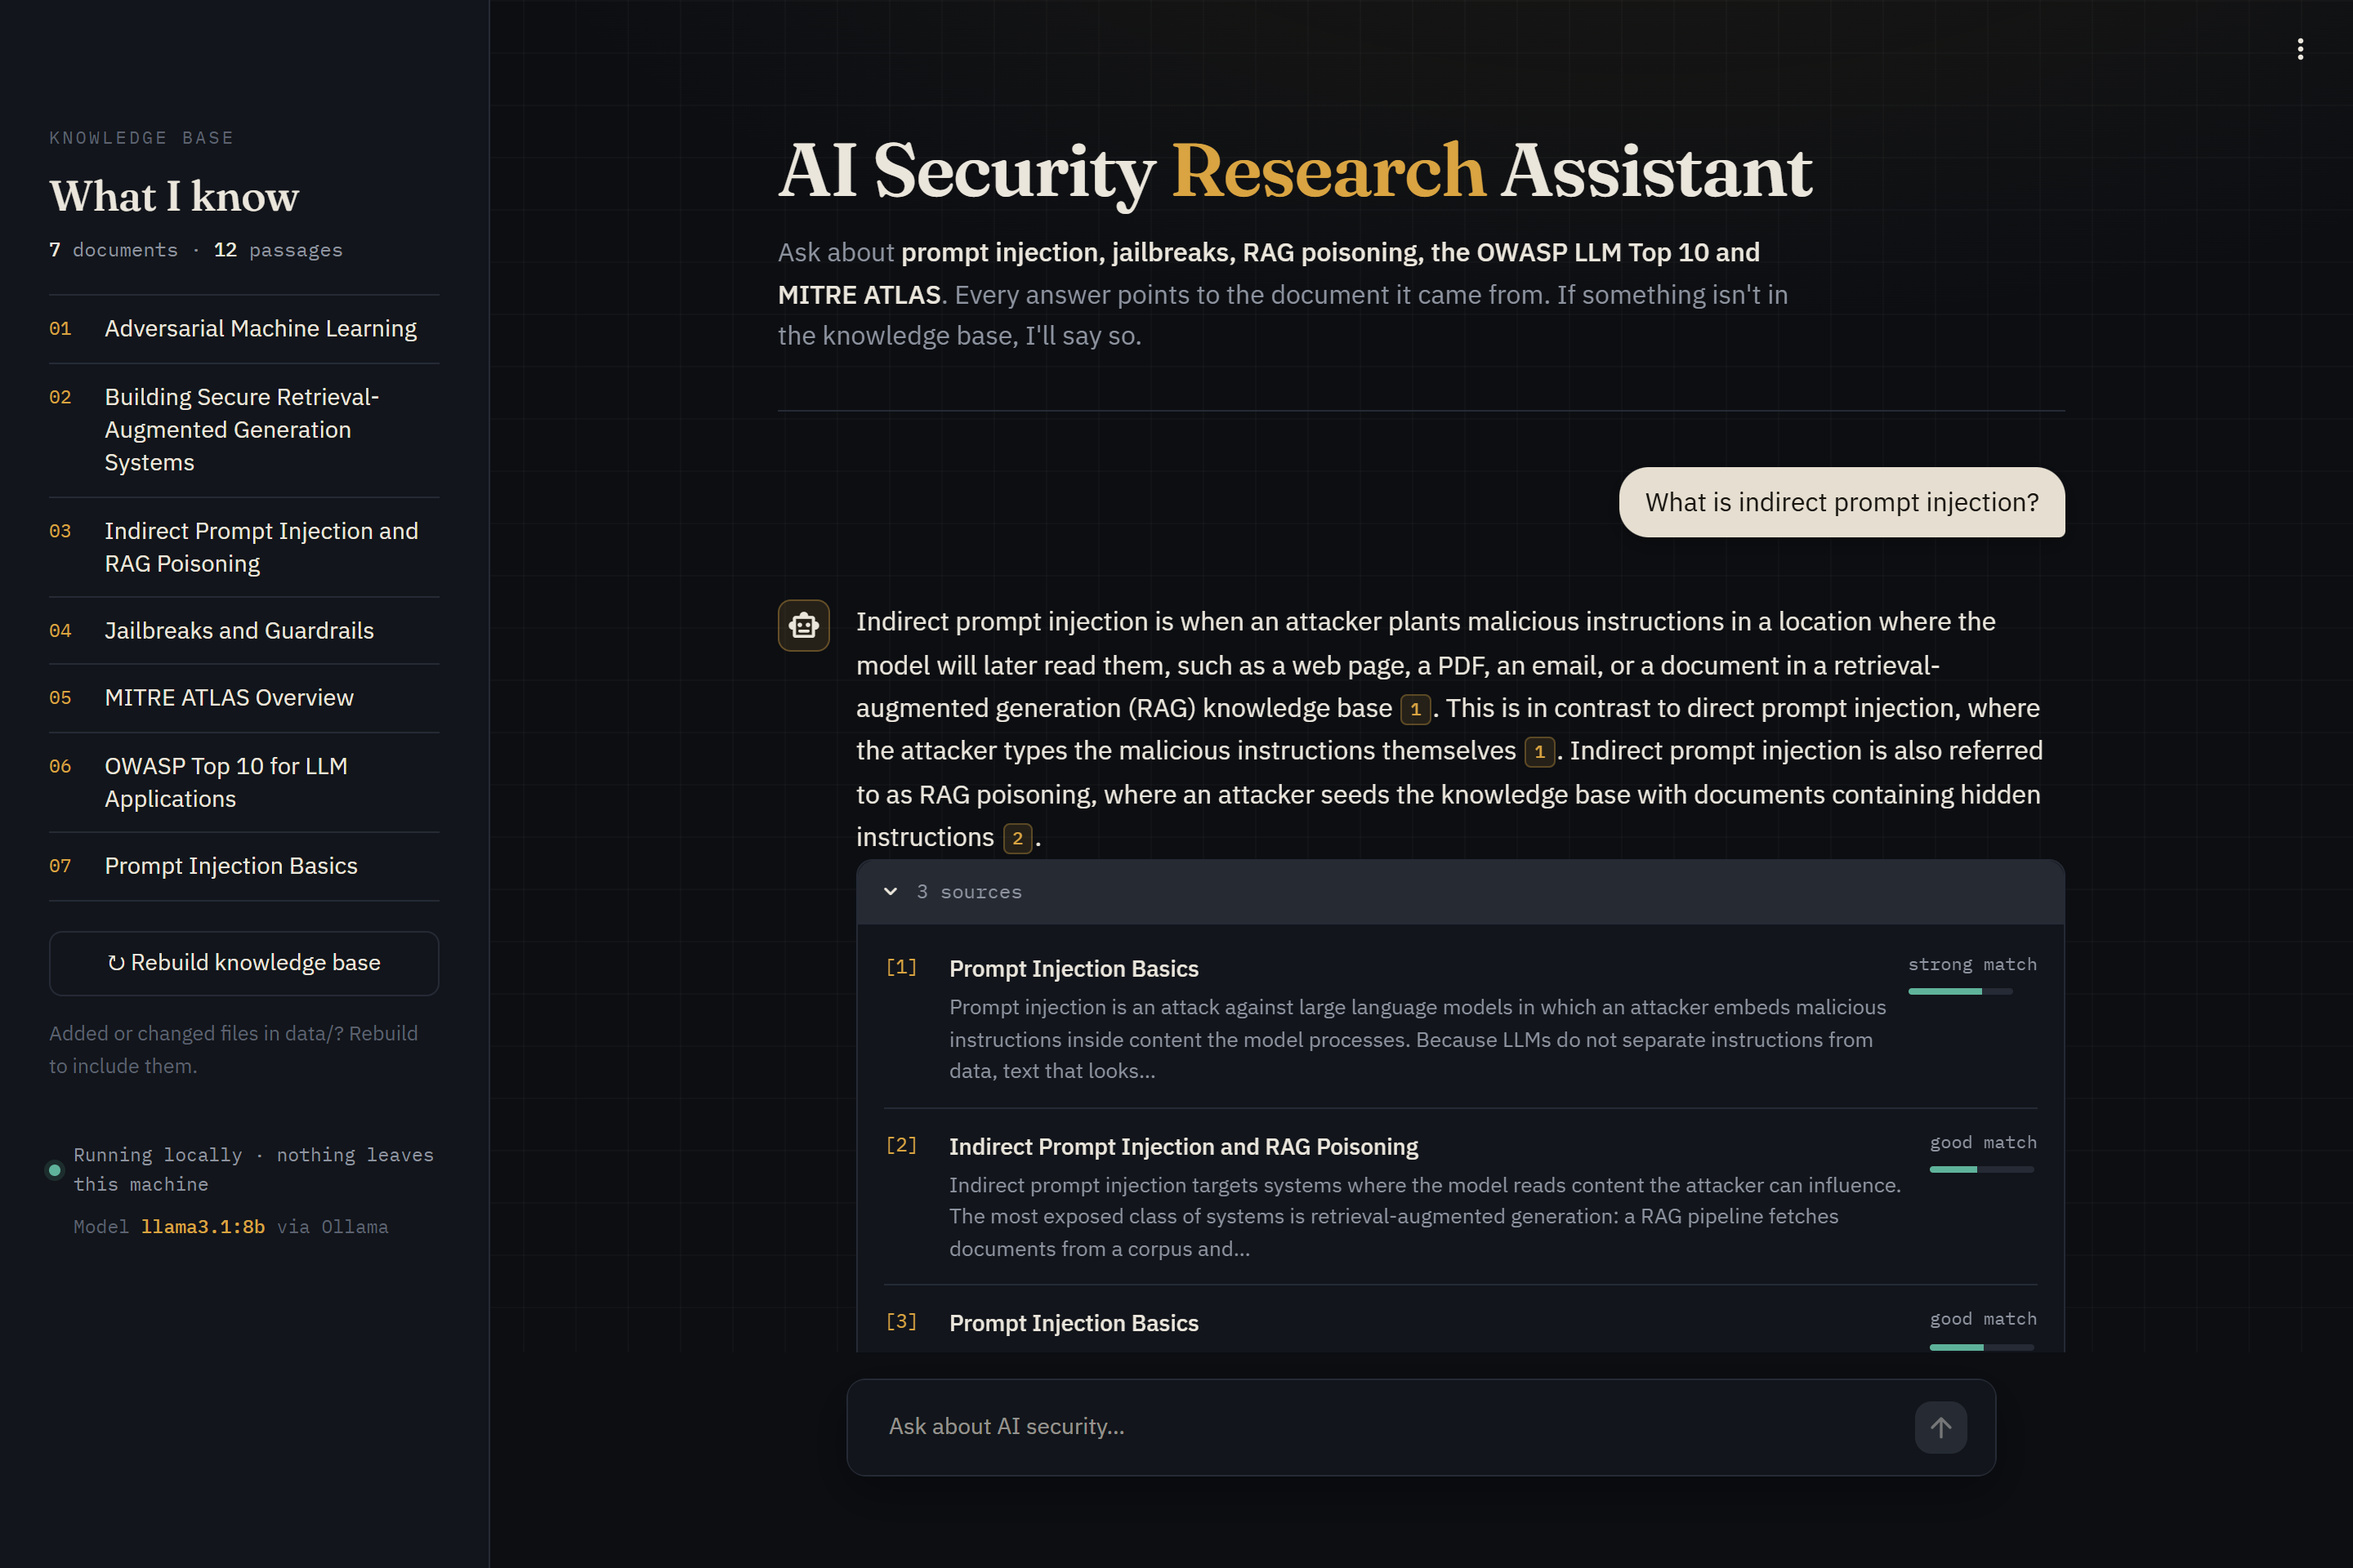
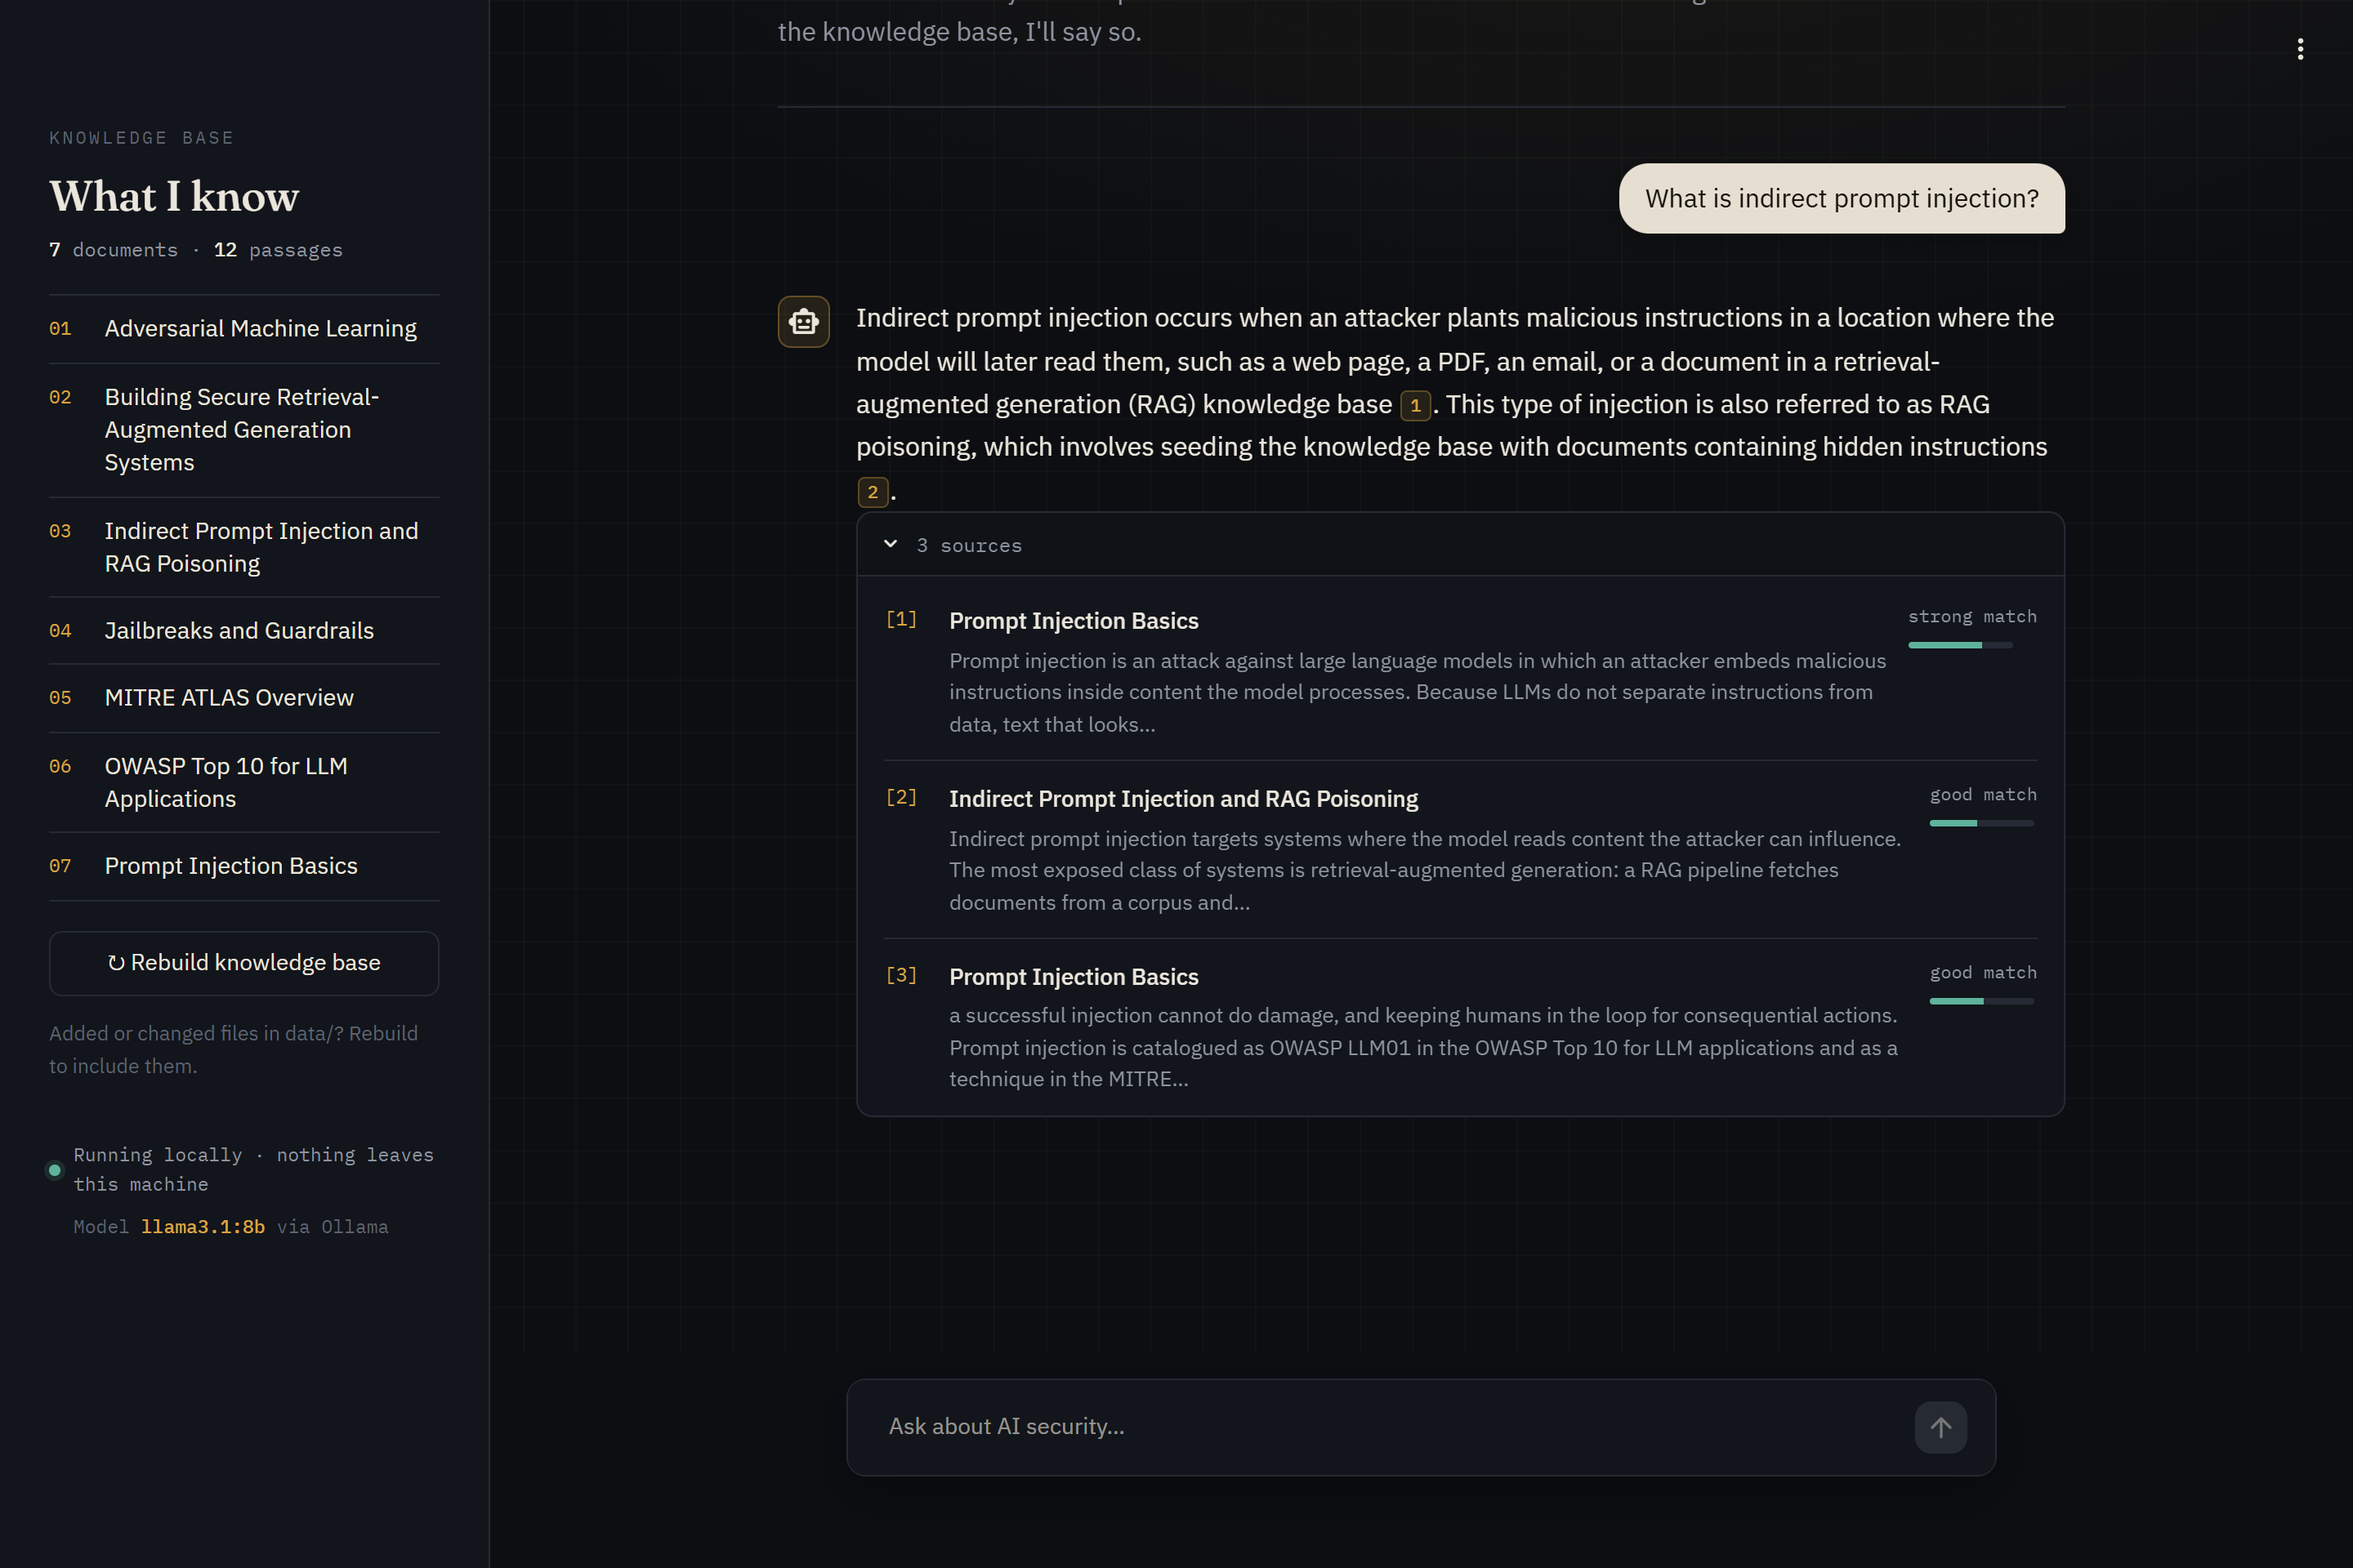
Fix refusal screenshot: the callout was hidden behind the chat input
scroll_into_view_if_needed() treated the refusal callout as visible while the
fixed chat input covered it, so the README image showed no refusal. Centre it
explicitly before the screenshot, and regenerate the images.

diff --git a/scripts/take_screenshots.py b/scripts/take_screenshots.py
@@ -86,7 +86,10 @@ def main() -> int:
             ask(page, "What's the capital of France?")
             page.get_by_text("Outside the knowledge base").wait_for(timeout=180_000)
             wait_idle(page)
-            page.get_by_text("Outside the knowledge base").scroll_into_view_if_needed()
+            # scroll_into_view_if_needed() counts the callout as "visible" even when the
+            # fixed chat input covers it, so centre it explicitly.
+            page.get_by_text("Outside the knowledge base").evaluate("el => el.scrollIntoView({block: 'center'})")
+            page.wait_for_timeout(400)
             page.screenshot(path=OUT / "refusal.png")
             browser.close()
     finally:
